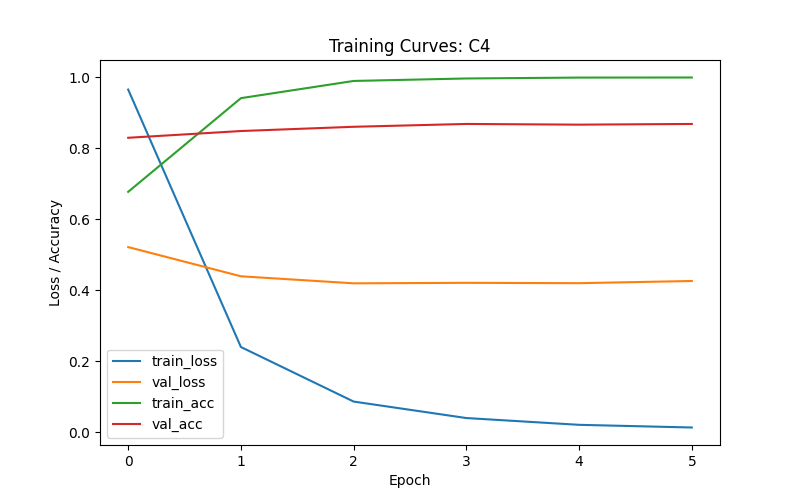
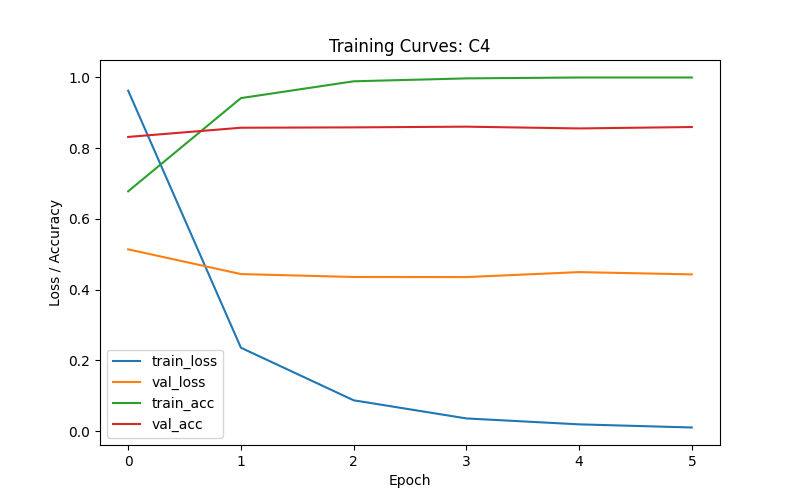
fixes

diff --git a/homeworks/HW10-11/report.md b/homeworks/HW10-11/report.md
@@ -3,7 +3,7 @@
 ## 1. Кратко: что сделано
 
 - Какой датасет выбран для части A и почему. выбран датасет STL10, так как он небольшой, но достаточно сложный для проверки CNN и transfer learning
-- Какой датасет и какой трек выбран для части B (`detection` или `segmentation`) и почему. выбран датасет OxfordIIITPet, трек segmentation, потому что это простой и наглядный foreground/background сценарий для масок животных.
+- Какой датасет и какой трек выбран для части B (`detection` или `segmentation`) и почему. выбран датасет OxfordIIITPet, трек `segmentation`, потому что это простой и наглядный foreground/background сценарий для масок животных.
 - Что сравнивалось в части A и что сравнивалось во второй части. В части A сравнивалось влияние аугментаций и transfer learning на качество классификации. Во второй части сравнивались два режима постобработки маски (V1 и V2) и их влияние на mean IoU и pixel-level метрики.
 
 ## 2. Среда и воспроизводимость
@@ -62,7 +62,7 @@
 ### Если выбран segmentation track
 
 - Модель: DeepLabV3_ResNet50 pretrained
-- Что считается foreground: все пиксели с классом животного (mask>0)
+- Что считается foreground: В данной работе foreground определяется как все пиксели с меткой > 0 (pet + border)
 - V1: альтернативная бинаризация по порогу 0.5
 - V2: альтернативная бинаризация по порогу 0.7 и удаление частиц
 - Как считался mean IoU: стандартная формула intersection/union для каждого изображения, затем усреднение